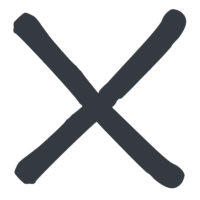
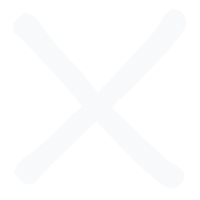
green color palette test

Changed region(s): [[0.06, 0.03, 0.93, 0.96]]

diff --git a/css/main.css b/css/main.css
@@ -5,13 +5,9 @@ html, body {
 }
 
 /* 
-#34A0A4
-#52B69A
-#99D98C
-
-#ffaa00
-#ffb700
-#ffc300
+#67b99a
+#469d89
+#248277
 
 */
 
@@ -20,7 +16,7 @@ html, body {
 #header {
     position: fixed;
     /* background: linear-gradient(45deg, #99D98C, #52B69A, #34A0A4 90%); */
-    background-color: #ffaa00;
+    background-color: #469d89;
     width: 100%;
     height: 50px;
     display: flex;
@@ -186,7 +182,7 @@ html, body {
         top: -250px;
         top: 0;
         /* background: linear-gradient(#343a40, #6c757d); */
-        background: linear-gradient(45deg, #ff9500, #ffa200);
+        background: linear-gradient(45deg, #67b99a, #248277);
         z-index: 0;
         transition: 0.33s;
     }
